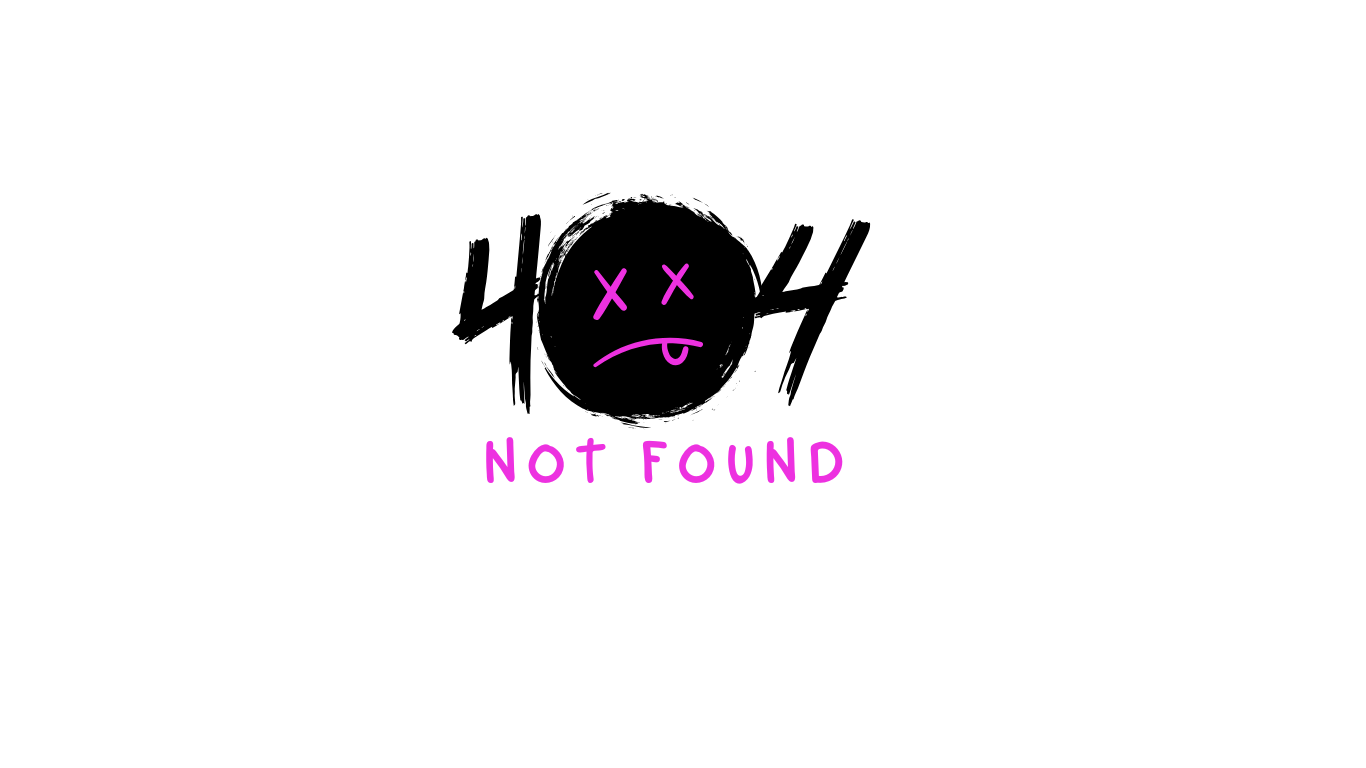
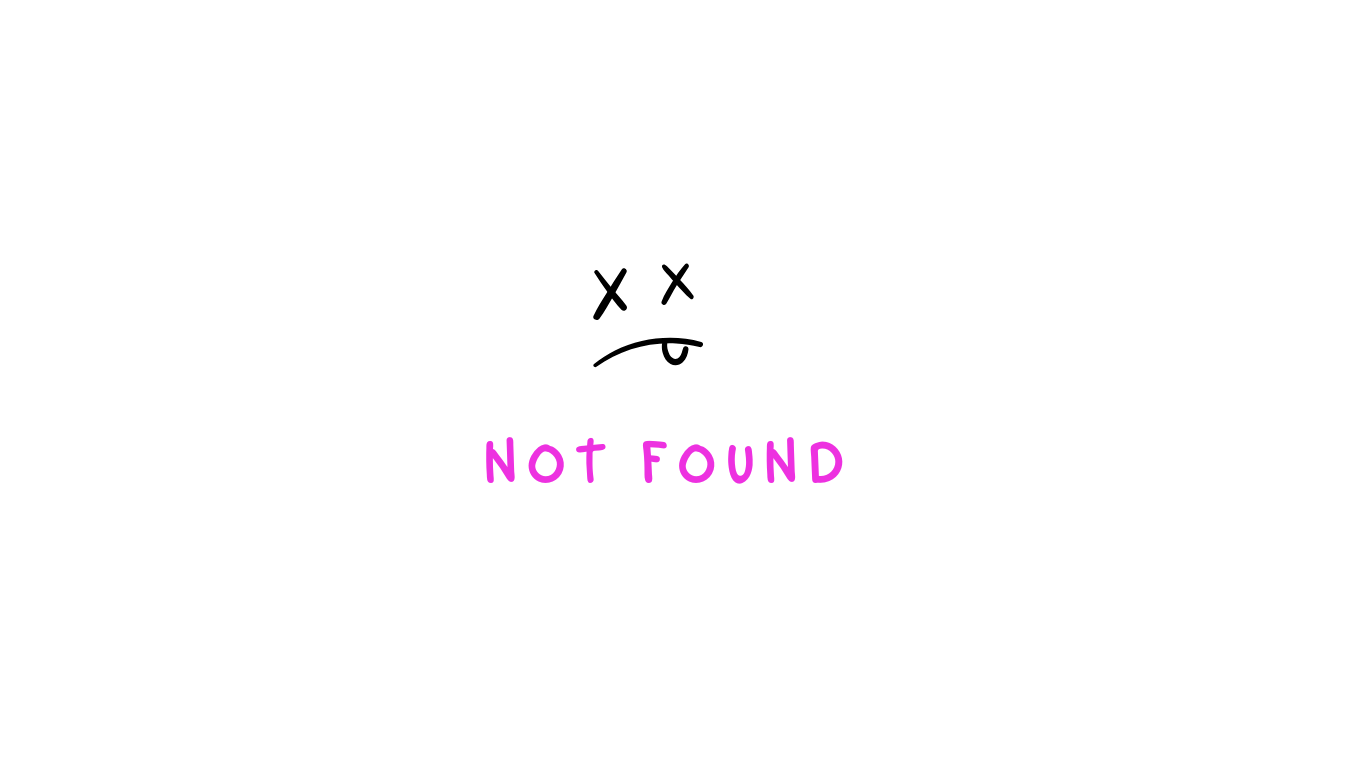
404 refait, FAQ refaite + ajustements

Changed region(s): [[0.3075, 0.25, 0.6457, 0.5625]]

diff --git a/faq.css b/faq.css
@@ -1,7 +1,42 @@
+.main-container {
+  display: flex;
+  flex-direction: column;
+  min-height: 100vh;
+}
+
+.header {
+  flex: 0 0 auto;
+  width: 100%;
+  z-index: 200;
+}
+
+.box {
+  margin-top: 20%;
+  padding: 1.5rem;
+  margin-right: 10%;
+  margin-left: 10%;
+  border-width: 1px;
+  border-top-left-radius: .25rem;
+  border-top-right-radius: .25rem;
+}
+
+footer {
+    flex: 0 0 auto;
+    width: 100%;
+    background-color: #000;
+    color: white;
+    text-align: center;
+    padding: 1rem 0;
+}
+
+.accordion-body {
+  font-family: 'Abel', sans-serif !important;
+}
+
 .big-screen {
   position: fixed;
   display: flex;
-  top: -200;
+  top: 0;
   transition: top 0.3s ease;
   width: 100%;
   z-index: 200;
@@ -24,21 +59,6 @@
   margin-top: 2%;
   margin-right: 2%;
   width: auto;
-}
-
-h1 {
-  font-size: 4rem;
-  text-align: start;
-  color: #EE53CC;
-  padding-left: 7%;
-  margin-left: 10%;
-}
-
-h2 {
-  text-align: start;
-  color: #EE53CC;
-  padding-left: 7%;
-  margin-left: 10%;
 }
 
 .btn {
@@ -64,8 +84,6 @@ h2 {
   .nav {
       position: static;
       flex-direction: row;
-      background: none;
-      transform: none;
       opacity: 1;
   }
 
@@ -97,7 +115,7 @@ h2 {
       margin: 0;
   }
 
-  .collapse {
+  .menu {
       background-color: black !important;
   }
 

diff --git a/style.css b/style.css
@@ -4,14 +4,14 @@ Theme Name: BandMates Theme
 
 @font-face {
     font-family: 'Zing';
-    src: url("/assets/fonts/zing.otf") format('OpenType');
+    src: url("/wp-content/themes/BANDMATES./assets/fonts/zing.otf") format('OpenType');
     font-weight: normal;
     font-style: normal;
 }
 
 @font-face {
     font-family: 'Abel';
-    src: url("/assets/fonts/Abel-Regular.ttf") format('TrueType');
+    src: url("/wp-content/themes/BANDMATES./assets/fonts/Abel-Regular.ttf") format('TrueType');
     font-weight: normal;
     font-style: normal;
 }

diff --git a/css/dashboard.css b/css/dashboard.css
@@ -17,10 +17,11 @@
 }
 
 .logo {
-    width: 60%;
-    margin-top: 0;
-    margin-left: 12%;
-    margin-bottom: 0;
+    margin-top: 2%;
+    margin-left: 2%;
+    margin-right: 5%;
+    width: 100% !important;
+    max-height: 150px !important;
 }
 
 .user-profile {

diff --git a/faq.php b/faq.php
@@ -5,89 +5,94 @@ Template Name: FAQ
 get_header();
 ?>
 
-<!-- <header>
-    <div class="big-screen" id="big-navbar">
-        <div>
-            <a href="<?php echo get_home_url(); ?>">
-                <img class="logo" src="<?php echo get_stylesheet_directory_uri()?>/images/logo.png" alt="Logo">
-            </a>
+<div class="main-container">
+    <div class="header">
+        <div class="big-screen" id="big-navbar">
+            <div>
+                <a href="<?php echo get_home_url(); ?>">
+                    <img class="logo" src="<?php echo get_stylesheet_directory_uri()?>/images/logo.png" alt="Logo">
+                </a>
+            </div>
+            <div class="nav">
+                <a class="btn" href="<?php echo home_url('/faq/'); ?>">FAQ</a>
+                <a class="btn" href="<?php echo home_url('/support/'); ?>">Support</a>
+            </div>
         </div>
-        <div class="nav">
-            <a class="btn" href="">FAQ</a>
-            <a class="btn">Support</a>
+
+        <div class="collapse menu" id="navbarToggleExternalContent">
+        <div class="bg-dark p-4">
+            <a class="text-white d-block mb-2" href="<?php echo home_url('/faq/'); ?>">FAQ</a>
+            <a class="text-white d-block" href="<?php echo home_url('/support/'); ?>">Support</a>
         </div>
-    </div>
-
-    <div class="collapse" id="navbarToggleExternalContent">
-    <div class="bg-dark p-4">
-        <a class="text-white d-block mb-2">FAQ</a>
-        <a class="text-white d-block">Support</a>
-    </div>
-    </div>
-    <nav class="navbar navbar-dark bg-dark">
-        <div class="container-fluid d-flex justify-content-between align-items-center">
-            <a href="<?php echo get_home_url(); ?>">
-                <img class="logo" src="<?php echo get_stylesheet_directory_uri()?>/images/mini-logo-2.png" alt="Logo">
-            </a>
-
-            <button class="navbar-toggler ms-auto" type="button" data-bs-toggle="collapse" data-bs-target="#navbarToggleExternalContent" aria-controls="navbarToggleExternalContent" aria-expanded="false" aria-label="Toggle navigation">
-                <span class="navbar-toggler-icon"></span>
-            </button>
         </div>
-    </nav>
+        <nav class="navbar navbar-dark bg-dark">
+            <div class="container-fluid d-flex justify-content-between align-items-center">
+                <a href="<?php echo get_home_url(); ?>">
+                    <img class="logo" src="<?php echo get_stylesheet_directory_uri()?>/images/mini-logo-2.png" alt="Logo">
+                </a>
 
-</header> -->
-
-    <div class="accordion accordion-flush" id="accordionFlushExample">
-        <div class="accordion-item">
-            <h2 class="accordion-header" id="flush-headingOne">
-                <button class="accordion-button collapsed" type="button" data-bs-toggle="collapse" data-bs-target="#flush-collapseOne" aria-expanded="false" aria-controls="flush-collapseOne">
-                    Qu’est-ce que BandMates ?
+                <button class="navbar-toggler ms-auto" type="button" data-bs-toggle="collapse" data-bs-target="#navbarToggleExternalContent" aria-controls="navbarToggleExternalContent" aria-expanded="false" aria-label="Toggle navigation">
+                    <span class="navbar-toggler-icon"></span>
                 </button>
-            </h2>
-            <div id="flush-collapseOne" class="accordion-collapse collapse" aria-labelledby="flush-headingOne" data-bs-parent="#accordionFlushExample">
-                <div class="accordion-body">
-                BandMates est une plateforme innovante conçue pour connecter des musiciens afin de former des groupes ou collaborer sur des projets musicaux. Inspirée des applications de rencontres, elle utilise un algorithme intelligent pour suggérer des partenaires musicaux compatibles.
+            </div>
+        </nav>
+
+    </div>
+
+
+    <div class="box">
+        <div class="accordion" id="accordionExample">
+            <div class="accordion-item">
+                <h2 class="accordion-header" id="headingOne">
+                    <button class="accordion-button" type="button" data-bs-toggle="collapse" data-bs-target="#collapseOne" aria-expanded="false" aria-controls="collapseOne">
+                        Qu’est-ce que BandMates ?
+                    </button>
+                </h2>
+                <div id="collapseOne" class="accordion-collapse collapse" aria-labelledby="headingOne" data-bs-parent="#accordionExample">
+                    <div class="accordion-body">
+                        BandMates est une plateforme innovante conçue pour connecter des musiciens afin de former des groupes ou collaborer sur des projets musicaux. Inspirée des applications de rencontres, elle utilise un algorithme intelligent pour suggérer des partenaires musicaux compatibles.
+                    </div>
+                </div>
+            </div>
+            <div class="accordion-item">
+                <h2 class="accordion-header" id="headingTwo">
+                    <button class="accordion-button collapsed" type="button" data-bs-toggle="collapse" data-bs-target="#collapseTwo" aria-expanded="false" aria-controls="collapseTwo">
+                        Qui peut utiliser BandMates ?
+                    </button>
+                </h2>
+                <div id="collapseTwo" class="accordion-collapse collapse" aria-labelledby="headingTwo" data-bs-parent="#accordionExample">
+                    <div class="accordion-body">
+                        La plateforme est ouverte aux musiciens amateurs et semi-professionnels de tout âge, motivés pour collaborer, améliorer leurs compétences ou participer à des projets musicaux.
+                    </div>
+                </div>
+            </div>
+            <div class="accordion-item">
+                <h2 class="accordion-header" id="headingThree">
+                    <button class="accordion-button collapsed" type="button" data-bs-toggle="collapse" data-bs-target="#collapseThree" aria-expanded="false" aria-controls="collapseThree">
+                        Puis-je discuter avec d’autres musiciens via la plateforme ?
+                    </button>
+                </h2>
+                <div id="collapseThree" class="accordion-collapse collapse" aria-labelledby="headingThree" data-bs-parent="#accordionExample">
+                    <div class="accordion-body">
+                        Oui, une fonctionnalité de chat intégrée vous permet d’échanger directement avec d’autres utilisateurs.
+                    </div>
+                </div>
+            </div>
+            <div class="accordion-item">
+                <h2 class="accordion-header" id="headingFour">
+                    <button class="accordion-button collapsed" type="button" data-bs-toggle="collapse" data-bs-target="#collapseFour" aria-expanded="false" aria-controls="collapseFour">
+                        Quels types de profils puis-je trouver ?
+                    </button>
+                </h2>
+                    <div id="collapseFour" class="accordion-collapse collapse" aria-labelledby="headingFour" data-bs-parent="#accordionExample">
+                    <div class="accordion-body">
+                        Vous pouvez découvrir des musiciens pratiquant divers styles musicaux, instruments et ayant des objectifs variés, allant de la formation de groupes à la création de projets musicaux.
+                    </div>
                 </div>
             </div>
         </div>
-        <div class="accordion-item">
-            <h2 class="accordion-header" id="flush-headingTwo">
-                <button class="accordion-button collapsed" type="button" data-bs-toggle="collapse" data-bs-target="#flush-collapseTwo" aria-expanded="false" aria-controls="flush-collapseTwo">
-                    Qui peut utiliser BandMates ?
-                </button>
-            </h2>
-            <div id="flush-collapseTwo" class="accordion-collapse collapse" aria-labelledby="flush-headingTwo" data-bs-parent="#accordionFlushExample">
-                <div class="accordion-body">
-                    La plateforme est ouverte aux musiciens amateurs et semi-professionnels de tout âge, motivés pour collaborer, améliorer leurs compétences ou participer à des projets musicaux.
-                </div>
-            </div>
-        </div>
-        <div class="accordion-item">
-            <h2 class="accordion-header" id="flush-headingThree">
-                <button class="accordion-button collapsed" type="button" data-bs-toggle="collapse" data-bs-target="#flush-collapseThree" aria-expanded="false" aria-controls="flush-collapseThree">
-                    Puis-je discuter avec d’autres musiciens via la plateforme ?
-                </button>
-            </h2>
-            <div id="flush-collapseThree" class="accordion-collapse collapse" aria-labelledby="flush-headingThree" data-bs-parent="#accordionFlushExample">
-                <div class="accordion-body">
-                    Oui, une fonctionnalité de chat intégrée vous permet d’échanger directement avec d’autres utilisateurs.    
-                </div>
-            </div>
-        </div>
-        <div class="accordion-item">
-            <h2 class="accordion-header" id="flush-headingFour">
-                <button class="accordion-button collapsed" type="button" data-bs-toggle="collapse" data-bs-target="#flush-collapseFour" aria-expanded="false" aria-controls="flush-collapseFour">
-                    Quels types de profils puis-je trouver ?
-                </button>
-            </h2>
-            <div id="flush-collapseFour" class="accordion-collapse collapse" aria-labelledby="flush-headingFour" data-bs-parent="#accordionFlushExample">
-                <div class="accordion-body">
-                    Vous pouvez découvrir des musiciens pratiquant divers styles musicaux, instruments et ayant des objectifs variés, allant de la formation de groupes à la création de projets musicaux.
-                </div>
-            </div>
-        </div>
     </div>
+</div>
 <?php
 get_footer();
 ?>

diff --git a/functions.php b/functions.php
@@ -4,7 +4,7 @@ add_theme_support('title-tag');
 function main_style() {
     // echo "<script>console.log('Page actuelle ID : " . get_the_ID() . "');</script>";
     // echo "<script>console.log('Permalien actuel : " . get_permalink() . "');</script>";
-    // echo "<script>console.log('on entre dans la fonction pour le style et le js');</script>";   
+    // echo "<script>console.log('on entre dans la fonction pour le style et le js');</script>";  
     wp_enqueue_style('boostrap-style', "https://cdn.jsdelivr.net/npm/bootstrap@5.3.0/dist/css/bootstrap.min.css", array(), '5.3.0');
     wp_enqueue_script('bootstrap-script', "https://cdn.jsdelivr.net/npm/bootstrap@5.3.0/dist/js/bootstrap.bundle.min.js", array('jquery'), '5.3.0', true);
     wp_enqueue_style('bandmates_style', get_stylesheet_directory_uri() . '/style.css', [], false);
@@ -37,7 +37,9 @@ function main_style() {
     } else if (is_page(79)) {
         wp_enqueue_style('style-officiel', get_template_directory_uri() . '/style-officiel.css', [], false);
     } else if (is_page(87)) {
-        wp_enqueue_style('style-404', get_template_directory_uri() . 'style-404.css', false);
+        wp_enqueue_style('style-404', get_template_directory_uri() . '/style-404.css', false);
+    } else if (is_page('support')) {
+        wp_enqueue_style('style-support', get_template_directory_uri() . '/support.css', false);
     }
 }
 

diff --git a/footer.php b/footer.php
@@ -3,17 +3,6 @@
 Template Name: Footer
 */
 ?>
-
-<!-- <!DOCTYPE html>
-<html>
-
-<head>
-    <meta charset="utf-8">
-    <meta name="viewport" content="width=device-width, initial-scale=1.0">
-    <title>Untitled</title>
-</head>
-
-<body> -->
     <div class="footer-clean">
         <footer>
             <div class="container">
@@ -31,7 +20,7 @@ Template Name: Footer
                             <li><a href="<?php echo home_url('/faq/'); ?>">FAQ</a></li>
                             <li><a href="<?php echo home_url('/politique-de-confidentialite/'); ?>">Politique de condidentialité</a></li>
                             <li><a href="<?php echo home_url('/code-de-conduite/'); ?>">Code de conduite</a></li>
-                            <li><a href="<?php echo home_url('/mentions-legales/'); ?>">Mentin légales</a></li>
+                            <li><a href="<?php echo home_url('/mentions-legales/'); ?>">Mentions légales</a></li>
                         </ul>
                     </div>
                     <div class="col-sm-4 col-md-3 item">

diff --git a/index.php b/index.php
@@ -13,14 +13,14 @@ get_header();
         </div>
         <div class="nav">
             <a class="btn menu" href="<?php echo home_url('/faq/'); ?>">FAQ</a>
-            <a class="btn menu">Support</a>
+            <a class="btn menu" href="<?php echo home_url('/support/'); ?>">Support</a>
         </div>
     </div>
 
     <div class="collapse" id="navbarToggleExternalContent">
     <div class="bg-dark p-4">
         <a class="text-white d-block mb-2" href="<?php echo home_url('/faq/'); ?>">FAQ</a>
-        <a class="text-white d-block">Support</a>
+        <a class="text-white d-block" href="<?php echo home_url('/support/'); ?>">Support</a>
     </div>
     </div>
     <nav class="navbar navbar-dark bg-dark">

diff --git a/404.php b/404.php
@@ -13,6 +13,7 @@ if (have_posts()) :
     endwhile;
 else :
     echo '<p>Page introuvable.</p>';
-endif;
+endif;?>
+<?php
 get_footer();
 ?>
